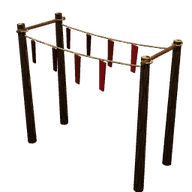
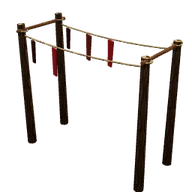
Avance: 1 carne cruda da 1 seca (valravnx: «no seamos tan duros, que cazar cuesta») y lo colgado se seca todo a la vez (hasta 10)
Claude-Session: https://claude.ai/code/session_011XgxtnyRENZpqxCb9gjHdc

diff --git a/src/logica/fabricacion.js b/src/logica/fabricacion.js
@@ -75,6 +75,7 @@ export const ALCANCE_ESTACION = 2.5;        // m, del jugador a la estación
 export const ALCANCE_SUELO = ALCANCE_COGER; // m, del jugador a lo del suelo que se gasta
 export const COLA_ESTACION = 3;             // encargos sin terminar por estación
 export const COLA_MANOS = 1;
+export const COLA_SECADERO = 10;            // lo que se seca a la vez en un secadero (sus dos cuerdas; provisional)
 export const DEPOSITO_MAX = 20;             // unidades depositadas por estación, en total
 export const SECAR_CARNE = 6 * 3600;           // s que tarda la carne en secarse en el secadero (provisional)
 export const MAX_RATO_ESTACION = 5;         // s de trabajo como mucho en una sola acción (como en las obras)
@@ -175,10 +176,11 @@ export const RECETAS = {
   // asar la carne (9 nov; src/logica/comida.js): sacia más que cruda y no se estropea. Tiempo, provisional
   asar_carne:        r('Carne asada', 'fuego', 'carne_asada', { carne_cruda: 1 }, 45),
   // en el secadero (P9, 13 nov; documento de sistemas: «carne seca — 2 carne + (sal opcional) — secadero — dura
-  // mucho»): 2 carnes crudas colgadas dan 1 carne seca al cabo de SECAR_CARNE; lo que tarda se cuenta por tiempo
+  // mucho»): cada carne cruda colgada da 1 carne seca al cabo de SECAR_CARNE (valravnx, 13 nov: «1 cruda, 1 seca, no
+  // seamos tan duros, que cazar cuesta»); lo que tarda se cuenta por tiempo
   // transcurrido (la cola de la estación guarda cuándo termina), así que el servidor no tiene que simular nada. Sin sal
   // (aún no hay). Provisional (diario y registro): 6 h reales, dos días de juego.
-  secar_carne:       r('Carne seca', 'secar', 'carne_seca', { carne_cruda: 2 }, SECAR_CARNE),
+  secar_carne:       r('Carne seca', 'secar', 'carne_seca', { carne_cruda: 1 }, SECAR_CARNE),
   // en el banco de tronco
   cuerda:            r('Cuerda', 'banco', 'cuerda', { cordel: 3 }, 30),
   cuerda_trenzada:   r('Cinturón de cuerda', 'banco', 'cuerda_trenzada', { cuerda: 2 }, 30),
@@ -667,7 +669,7 @@ export class Fabricacion {
         if (!e) return { ok: false, motivo: `Hace falta ${conQue(rc.uso)} a tu lado.` };
       }
       if (ESTACIONES[e.tipo].fuego && !encendida(e.fuego, ahora)) return { ok: false, motivo: estadoFuego(e.fuego, ahora).brasas ? 'Está en brasas: avívalo para que vuelva la llama.' : 'El fuego está apagado: enciéndelo con yesca y el taladro de fuego.' };
-      cola = e.cola; max = COLA_ESTACION; enEst = e;
+      cola = e.cola; max = ESTACIONES[e.tipo].cuelga ? COLA_SECADERO : COLA_ESTACION; enEst = e;
     }
     const sinTerminar = cola.filter(c => c.fin > ahora);
     if (sinTerminar.length >= max) return { ok: false, motivo: rc.uso === 'manos' ? 'Ya estás haciendo otra cosa.' : 'La cola de la estación está llena.' };
@@ -682,8 +684,8 @@ export class Fabricacion {
       if (Object.keys(f).length) return { ok: false, motivo: textoFaltan(f), faltan: f };
       usado = gastarTodo(rc.gasta, inv, cerca, suelo);
     }
-    // empieza cuando acaba lo anterior de la cola (o ya)
-    const empieza = Math.max(ahora, ...cola.map(c => c.fin));
+    // empieza cuando acaba lo anterior de la cola (o ya); en el secadero, todo lo colgado se seca a la vez
+    const empieza = enEst && ESTACIONES[enEst.tipo].cuelga ? ahora : Math.max(ahora, ...cola.map(c => c.fin));
     const encargo = { autor, receta, empieza, fin: empieza + rc.s * 1000 };
     cola.push(encargo);
     const est = Object.values(this.estaciones).find(x => x.cola === cola);

diff --git a/src/demo/registro.js b/src/demo/registro.js
@@ -1,8 +1,8 @@
 // Decisiones tomadas en la demo única, para revisar.
 export const VERSION_DEMO = "Demo única · v193 (El secadero)";
 export const REGISTRO_DEMO = [
-  "v193: el secadero (P9, «Oficios del asentamiento»). Un puesto nuevo en Construir, «Puestos de trabajo»: cuatro troncos delgados hincados de postes y dos cuerdas tendidas, fuera y en tu tierra. Se le cuelga carne cruda (Usar: dejar en él), que colgada no se estropea; en su pestaña del panel de fabricar, «Carne seca» pone 2 carnes crudas a secar y al cabo de 6 h se recoge 1 carne seca, que no se estropea y sacia como la asada. La carne que se seca se ve colgada para todos: la cruda, roja; la que se está secando, más oscura; la seca, parda y más fina. La carne seca cabe en el cesto. El panel dice en horas lo que falta.",
-  "v193, provisional: 6 h reales para secar la carne (dos días de juego), 30 s de trabajo para levantar el secadero, cuánto sacia la seca (como la asada) y que va solo fuera y en tu tierra.",
+  "v193: el secadero (P9, «Oficios del asentamiento»). Un puesto nuevo en Construir, «Puestos de trabajo»: cuatro troncos delgados hincados de postes y dos cuerdas tendidas, fuera y en tu tierra. Se le cuelga carne cruda (Usar: dejar en él), que colgada no se estropea; en su pestaña del panel de fabricar, «Carne seca» pone a secar cada carne cruda y al cabo de 6 h se recoge su carne seca (1 cruda, 1 seca: valravnx, «no seamos tan duros, que cazar cuesta»); lo colgado se seca todo a la vez, que no se estropea y sacia como la asada. La carne que se seca se ve colgada para todos: la cruda, roja; la que se está secando, más oscura; la seca, parda y más fina. La carne seca cabe en el cesto. El panel dice en horas lo que falta.",
+  "v193, provisional: 6 h reales para secar la carne (dos días de juego), 30 s de trabajo para levantar el secadero, hasta 10 carnes secándose a la vez en cada uno, cuánto sacia la seca (como la asada) y que va solo fuera y en tu tierra.",
   "v192: el suelo con materiales (hito «El aspecto»). El suelo ya no es un verde liso con ruido: mezcla cuatro texturas de verdad (hierba, tierra, roca y hojarasca, libres CC0 de ambientCG) según lo que hay en cada sitio: roca en las paredes, tierra en las calvas, la playa y el lecho de los ríos, hojarasca bajo el bosque y hierba en el prado. Entre una y otra, el borde va por la altura de cada textura (asoman primero las piedrecitas), y con relieve en las calidades que lo llevan. A lo lejos y donde se ve muy de canto, el detalle se va para que no haga rayas. Y la hierba densa ya no crece sobre la tierra ni la hojarasca.",
   "v192, provisional: qué texturas (Ground037, Ground106, Rock028 y Ground078), cuánto suelo ocupa cada una (de 2 a 3,5 m), el color de la tierra de las calvas (pardo grisáceo) y el relieve por calidad (nada en el móvil básico, algo menos en los otros móviles).",
   "v191: con pocos fotogramas se anda a la velocidad de siempre (valravnx, 12 nov: con pocos fps su chica andaba «hiperlenta»). Antes cada fotograma contaba como mucho 0,05 s, así que por debajo de 20 fps todo el juego iba a cámara lenta; ahora el tiempo del juego va al real (hasta medio segundo por fotograma, la vuelta de otra pestaña no salta) y el paso de andar se parte en trozos de 0,05 s para no atravesar paredes ni orillas.",

diff --git a/src/juego/estaciones.js b/src/juego/estaciones.js
@@ -274,13 +274,13 @@ function secadero(id) {
   for (const sz of [-1, 1]) cuerdaCombada(L, new THREE.Vector3(-X, cuerda, sz * Z), new THREE.Vector3(X, cuerda, sz * Z), comba);
   return mallas(L);
 }
-// Lo colgado en el secadero: primero la carne ya seca, luego la que se está secando (cada encargo, dos tiras) y al
+// Lo colgado en el secadero: primero la carne ya seca, luego la que se está secando (cada encargo, una tira) y al
 // final lo que se ha dejado colgado sin poner a secar (la carne cruda, roja). Cinco sitios por cuerda; lo que no cabe
-// en las cuerdas no se ve (la cola tiene como mucho 3 encargos y lo depositado, 20 cosas).
+// en las cuerdas no se ve (se secan como mucho 10 a la vez y lo depositado son hasta 20 cosas).
 const COLOR_TIRA = { cruda: 0x7a2b27, secando: 0x5e2a1e, seca: 0x40210f };
 function llenoSecadero(dep, id, colgado = []) {
   const L = new Lote({ rangoSuelo: 0.4, variacion: 0.06 }), { x: X, z: Z, cuerda, comba, sitios } = SECADERO, tiras = [];
-  for (const c of colgado) for (let k = 0; k < 2; k++) tiras.push(c.listo ? 'seca' : 'secando');
+  for (const c of colgado) tiras.push(c.listo ? 'seca' : 'secando');
   tiras.sort((a, b) => (a === 'seca' ? 0 : 1) - (b === 'seca' ? 0 : 1));
   for (let i = 0; i < (dep.carne_cruda || 0); i++) tiras.push('cruda');
   tiras.slice(0, 2 * sitios).forEach((t, i) => {

diff --git a/pruebas/prueba_fabricar_navegador.py b/pruebas/prueba_fabricar_navegador.py
@@ -322,7 +322,7 @@ try:
         captura(A, f'{SALIDA}/PC_secadero_cerca.png')
         A.evaluate(f"""(() => {{ const e = {K}.fabCliente.estaciones['secadero:vista']; Object.assign({K}.pj, {{ x: e.x + 0.4, z: e.z + 1.2 }}); }})()""")
         A.evaluate(f"{K}.panelFabricar.abrirEstacion('secadero:vista')"); A.wait_for_timeout(800)
-        comprobar('su pestaña «Secadero», con la carne seca: 2 carnes crudas, 6 h', esperar(A, "!!document.querySelector('#panelFabricar .fab-pest[data-pestana=\"secar\"]') && /Carne seca/.test(document.getElementById('panelFabricar').innerText)", 6000), A.evaluate("document.getElementById('panelFabricar').innerText")[:300])
+        comprobar('su pestaña «Secadero», con la carne seca: 1 carne cruda, 6 h', esperar(A, "!!document.querySelector('#panelFabricar .fab-pest[data-pestana=\"secar\"]') && /Carne seca/.test(document.getElementById('panelFabricar').innerText)", 6000), A.evaluate("document.getElementById('panelFabricar').innerText")[:300])
         t = elegir(A, 'secar_carne')
         comprobar('la ficha dice lo que tarda (6 h) y para qué sirve', '6 h' in t and 'no se estropea' in t, t[:300])
         captura(A, f'{SALIDA}/PC_panel_secadero.png')
